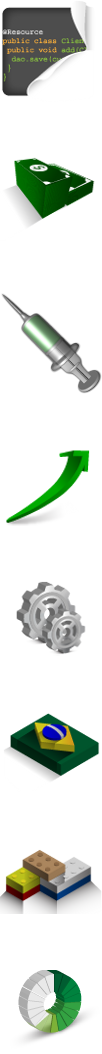
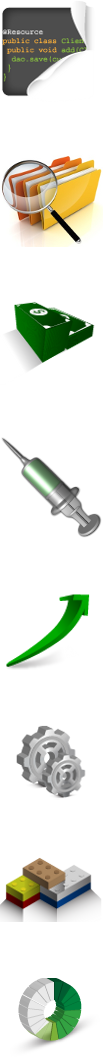
changing advantages sprite

diff --git a/vraptor-site/content/css/style.css b/vraptor-site/content/css/style.css
@@ -188,35 +188,35 @@ div.note p {
 }
 
 .home-advantages .productivity:before {
-  background-position: 0 -576px;
+  background-position: 0 -720px;
 }
 
 .home-advantages .learning:before {
-  background-position: 0 -444px;
+  background-position: 0 -588px;
 }
 
 .home-advantages .testability:before {
-  background-position: 0 -964px;
+  background-position: 0 -972px;
 }
 
 .home-advantages .economy:before {
-  background-position: 0 -153px;
+  background-position: 0 -297px;
 }
 
 .home-advantages .injection:before {
-  background-position: 0 -292px;
+  background-position: 0 -436px;
 }
 
 .home-advantages .soa:before {
-  background-position: 0 -845px;
+  background-position: 0 -853px; 
 }
 
 .home-advantages .best-practices:before {
   background-position: 0 0;
 }
 
-.home-advantages .pt-docs:before {
-  background-position: 0 -709px;
+.home-advantages .docs:before {
+  background-position: 0 -153px;
 }
 
 img#eventPileline {

diff --git a/vraptor-site/content/en/index.html b/vraptor-site/content/en/index.html
@@ -97,7 +97,7 @@ It is done! Now you may just access [localhost:8080/home](http://localhost:8080/
     <p>Take advantage of the powerful Java EE 7 CDI (Context Dependency Injection) specification.</p>
   </li>
 
-  <li class="pt-docs">
+  <li class="docs">
     <strong>Documentation</strong>
     <p>You can count on a vast documentation in Portuguese and English. Plus, the discussion lists are in English.</p>
   </li>

diff --git a/vraptor-site/content/pt/index.html b/vraptor-site/content/pt/index.html
@@ -95,7 +95,7 @@ documentação](/pt/docs/guia-de-1-minuto).
     <p>Tire proveito da poderosa especificação CDI (Context Dependency Injection) do Java EE 7.</p>
   </li>
 
-  <li class="pt-docs">
+  <li class="docs">
     <strong>Documentação em Português</strong>
     <p>Aprenda tudo sobre VRaptor 4 contando com uma ampla documentação, fóruns e listas de discussão em português.</p>
   </li>
